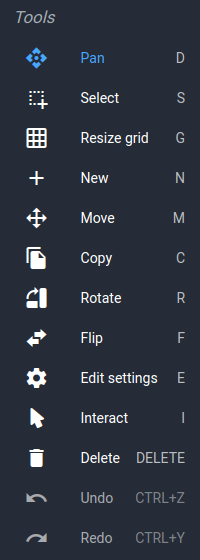
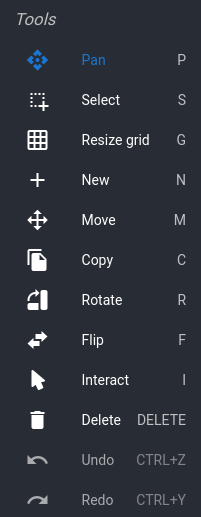
updated builder docs to reflect RMB for settings

diff --git a/docs/user/brewery_builder.md b/docs/user/brewery_builder.md
@@ -33,23 +33,15 @@ In the Builder editor right-hand sidebar, you can find the tools required for ch
 To activate the tool, click the menu button or use the associated shortcut.
 Depending on the tool, you can click or drag to use it.
 
-The function of most tools is self-explanatory, but we'll take a closer look at two of them: `Edit settings` and `Interact`.
-
-**Edit settings** will open a dialog with the settings available for a part.
-For many parts this only includes generic settings: rotate, flip, or remove the part.
-
-Some have more settings. For example, the kettle allows setting:
-
-- The label (displayed at the top)
-- The liquid color.
-- The width and height (measured in grid squares).
-- The liquid level (for display only - ignored in flow calculations).
-
-![Kettle settings](../images/builder-kettle-settings.png)
+The function of most tools is self-explanatory, but we'll take a closer look at one of them: `Interact`.
 
 **Interact** is the equivalent of clicking on a part in the Builder widget. Click on valves to open/close them, or click on linked parts to open the block dialog.
 
 ![Interact](../images/builder-interact.gif)
+
+Right click (or long press) on a part to edit part settings.
+
+![Context Menu](../images/builder-context-menu.png)
 
 ## Flow calculations
 
